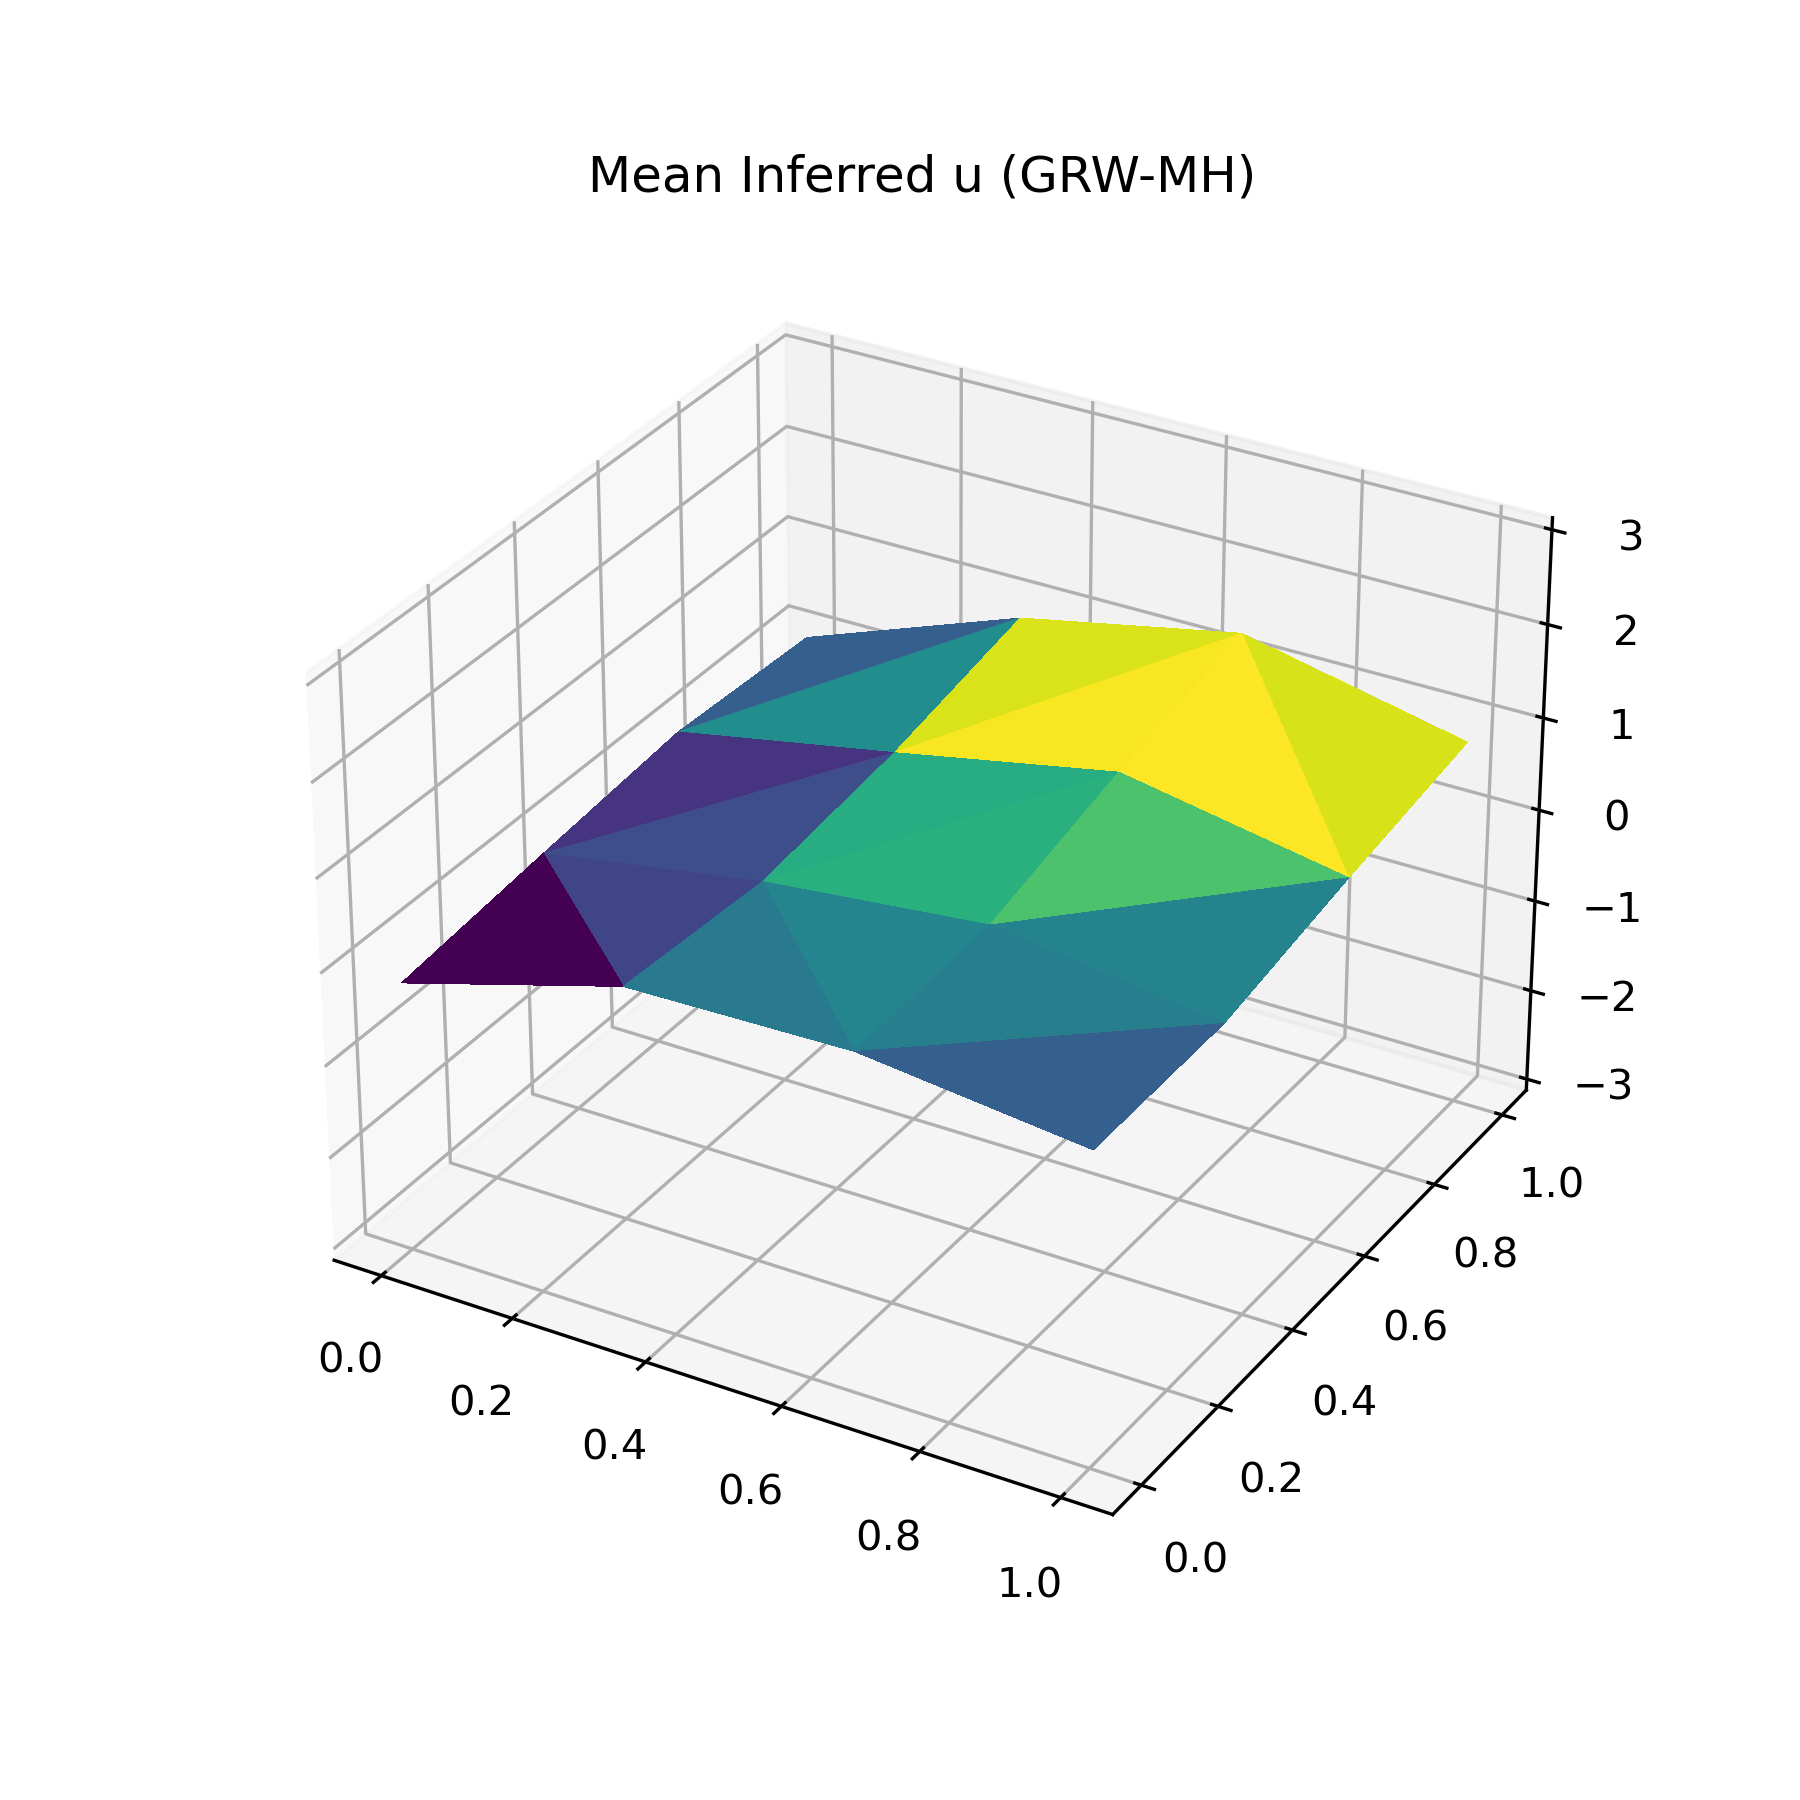
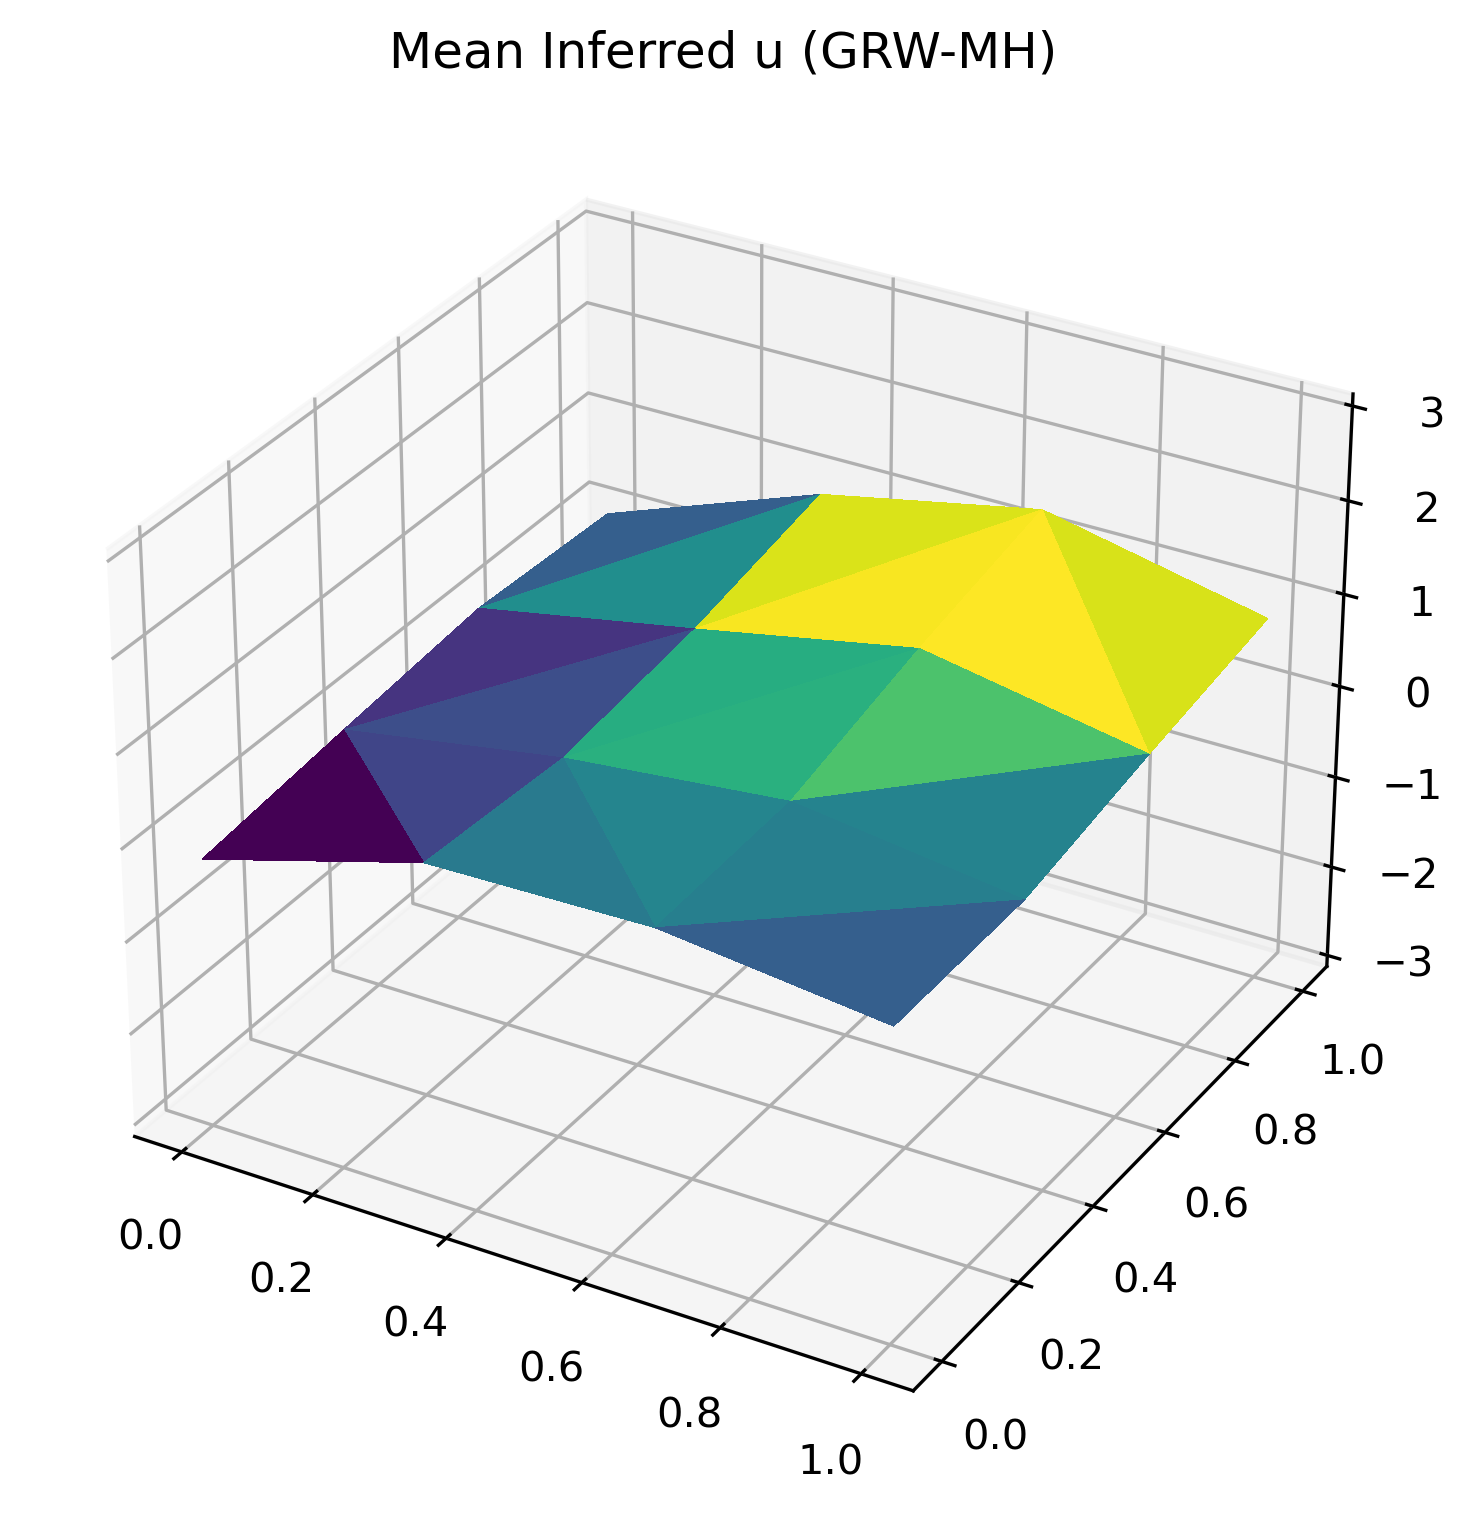
question c

diff --git a/ques_c.py b/ques_c.py
@@ -1,0 +1,62 @@
+import numpy as np
+import matplotlib.pyplot as plt
+from functions import *
+import os
+
+###--- Data Generation ---###
+np.random.seed(3429)
+
+### Set parameters
+Dx = 16
+Dy = 16
+n = 10000
+beta = 0.2
+l = 0.2
+
+# Create results directory if it doesn't exist
+results_dir = f"./results/C/D={Dx}"
+os.makedirs(results_dir, exist_ok=True)
+
+
+N = Dx * Dy     # Total number of coordinates
+points = [(x, y) for y in np.arange(Dx) for x in np.arange(Dy)]                # Indexes for the inference grid
+coords = [(x, y) for y in np.linspace(0,1,Dy) for x in np.linspace(0,1,Dx)]    # Coordinates for the inference grid
+xi, yi = np.array([c[0] for c in points]), np.array([c[1] for c in points])    # Get x, y index lists
+x, y = np.array([c[0] for c in coords]), np.array([c[1] for c in coords])      # Get x, y coordinate lists
+
+### Data grid defining {vi}i=1,N/subsample_factor - subsampled from inference grid
+subsample_factor = 4
+idx = subsample(N, subsample_factor)
+M = len(idx)                                                                   # Total number of data points
+
+### Generate K, the covariance of the Gaussian process, and sample from N(0,K) using a stable Cholesky decomposition
+K = GaussianKernel(coords, l)
+Kc = np.linalg.cholesky(K + 1e-6 * np.eye(N))
+
+z = np.random.randn(N, )
+u = Kc @ z
+
+# MCMC initial u
+z0 = np.random.randn(N, )
+u0 = Kc @ z0
+
+### Observation model: v = G(u) + e,   e~N(0,I)
+G = get_G(N, idx)
+v = G @ u + np.random.randn(M)
+t_data = probit(v)       # Probit transform of data
+t_true = probit(u)       # Probit transform of true u
+
+###--- MCMC Sampling ---###
+sampled_u_pcn, acc_pcn = pcn(log_probit_likelihood, u0=u0, data=t_data, K=K, G=G, n_iters=10000, beta=0.2)
+
+###--- Monte Carlo Estimation of Predictive Distribution ---###
+predicted_t_prob = predict_t(sampled_u_pcn)
+
+###--- Visualization ---###
+t_data_full = np.full(Dx*Dy, np.nan)  # Create Dx x Dy grid filled with NaNs
+for i, index in enumerate(idx):
+    t_data_full[index] = t_data[i]
+
+plot_2D(t_true, xi, yi, title="True Class Assignments").savefig(os.path.join(results_dir, "true_classes.png"),bbox_inches='tight')
+plot_2D(t_data_full, xi, yi, title="Observed Class Assignment").savefig(os.path.join(results_dir, "subsampled_data.png"),bbox_inches='tight')
+plot_2D(predicted_t_prob, xi, yi, title="Predictive Probability Distribution").savefig(os.path.join(results_dir, "predictive_probs.png"),bbox_inches='tight')

diff --git a/ques_b.py b/ques_b.py
@@ -8,8 +8,8 @@ import os
 np.random.seed(42)
 
 ### Set parameters
-Dx = 4
-Dy = 4
+Dx = 16
+Dy = 16
 n = 10000
 beta = 0.2
 l = 0.3
@@ -57,9 +57,9 @@ log_likelihood = log_continuous_likelihood
 ### Sample from prior for MCMC initialisation
 
 # Run GRW-MH
-sampled_u_grw, acc_grw = grw(log_continuous_target, u0=u0, data=v, K=K, G=G, n_iters=10000, beta=0.2)
+sampled_u_grw, acc_grw = grw(log_target, u0=u0, data=v, K=K, G=G, n_iters=10000, beta=0.2)
 # Run pCN
-sampled_u_pcn, acc_pcn = pcn(log_continuous_likelihood, u0=u0, data=v, K=K, G=G, n_iters=10000, beta=0.2)
+sampled_u_pcn, acc_pcn = pcn(log_likelihood, u0=u0, data=v, K=K, G=G, n_iters=10000, beta=0.2)
 
 # Compute mean inferred u
 mean_u_grw = np.mean(sampled_u_grw, axis=0)
@@ -72,22 +72,22 @@ error_pcn = np.abs(mean_u_pcn - u)
 zlim_u = (-3,3)
 zlim_error = (0,1.5)
 plt_obj = plot_3D(u, x, y, zlim=zlim_u)
-plt_obj.savefig(os.path.join(results_dir, "original_u_surface.png"))
+plt_obj.savefig(os.path.join(results_dir, "original_u_surface.png"),bbox_inches='tight')
 
 plt_obj = plot_result(u, v, x, y, x[idx], y[idx], title="Original Surface w/ data", zlim=zlim_u)
-plt_obj.savefig(os.path.join(results_dir, "original_u_with_data.png"))
+plt_obj.savefig(os.path.join(results_dir, "original_u_with_data.png"),bbox_inches='tight')
 
 plt_obj = plot_3D(mean_u_grw, x, y, title="Mean Inferred u (GRW-MH)", zlim=zlim_u)
-plt_obj.savefig(os.path.join(results_dir, "mean_inferred_u_grw.png"))
+plt_obj.savefig(os.path.join(results_dir, "mean_inferred_u_grw.png"),bbox_inches='tight')
 
 plt_obj = plot_3D(mean_u_pcn, x, y, title="Mean Inferred u (pCN)", zlim=zlim_u)
-plt_obj.savefig(os.path.join(results_dir, "mean_inferred_u_pcn.png"))
+plt_obj.savefig(os.path.join(results_dir, "mean_inferred_u_pcn.png"),bbox_inches='tight')
 
 plt_obj = plot_3D(error_grw, x, y, title="Error Field (GRW-MH)", zlim=zlim_error)
-plt_obj.savefig(os.path.join(results_dir, "error_field_grw.png"))
+plt_obj.savefig(os.path.join(results_dir, "error_field_grw.png"),bbox_inches='tight')
 
 plt_obj = plot_3D(error_pcn, x, y, title="Error Field (pCN)", zlim=zlim_error)
-plt_obj.savefig(os.path.join(results_dir, "error_field_pcn.png"))
+plt_obj.savefig(os.path.join(results_dir, "error_field_pcn.png"),bbox_inches='tight')
 
 
 # Compute mean absolute error

diff --git a/functions.py b/functions.py
@@ -35,11 +35,11 @@ def get_G(N, idx):
 
 
 def probit(v):
-    return np.array([0 if x < 0 else 1 for x in v])
+    return np.array([0 if x <= 0 else 1 for x in v])
 
 
 def predict_t(samples):
-    return # TODO: Return p(t=1|samples)
+    return np.mean(norm.cdf(samples), axis=0)
 
 
 ###--- Density functions ---###
@@ -55,7 +55,7 @@ def log_continuous_likelihood(u, v, G):
 
 def log_probit_likelihood(u, t, G):
     phi = norm.cdf(G @ u)
-    return # TODO: Return likelihood p(t|u)
+    return np.sum(t * np.log(phi) + (1 - t) * np.log(1 - phi))
 
 
 def log_poisson_likelihood(u, c, G):
@@ -197,8 +197,8 @@ def plot_2D(counts, xi, yi, title=None, colors='viridis'):
         Z[(yi[i], xi[i])] = counts[i]
     my_cmap = copy.copy(cm.get_cmap(colors))
     my_cmap.set_under('k', alpha=0)
-    fig, ax = plt.subplots(figsize=(6, 6), dpi=300)
-    im = ax.imshow(Z, origin='lower', cmap=my_cmap, clim=[-0.1, np.max(counts)])
+    fig, ax = plt.subplots(figsize=(5,4), dpi=300)
+    im = ax.imshow(Z, origin='lower', cmap=my_cmap, clim=[-0.1, np.nanmax(counts)])
     fig.colorbar(im)
     if title:  plt.title(title)
     return plt

diff --git a/ques_b_beta.py b/ques_b_beta.py
@@ -91,7 +91,7 @@ plt.ylabel("Acceptance Rate")
 plt.title("Acceptance Rate vs Beta")
 plt.legend()
 plt.grid(True)
-plt.savefig(os.path.join(results_dir, "acceptance_rate_vs_beta.png"))
+plt.savefig(os.path.join(results_dir, "acceptance_rate_vs_beta.png"),bbox_inches='tight')
 
 ### Plot Mean Absolute Error ###
 plt.figure(figsize=(6,4), dpi=300)
@@ -102,4 +102,4 @@ plt.ylabel("Mean Absolute Error")
 plt.title("Mean Absolute Error vs Beta")
 plt.legend()
 plt.grid(True)
-plt.savefig(os.path.join(results_dir, "error_vs_beta.png"))
+plt.savefig(os.path.join(results_dir, "error_vs_beta.png"),bbox_inches='tight')
